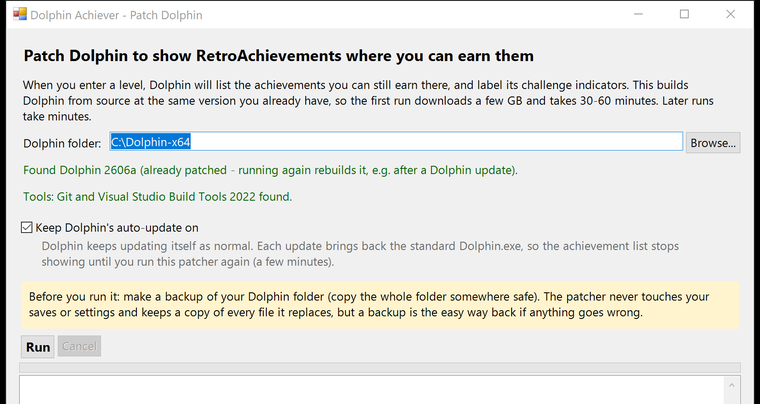
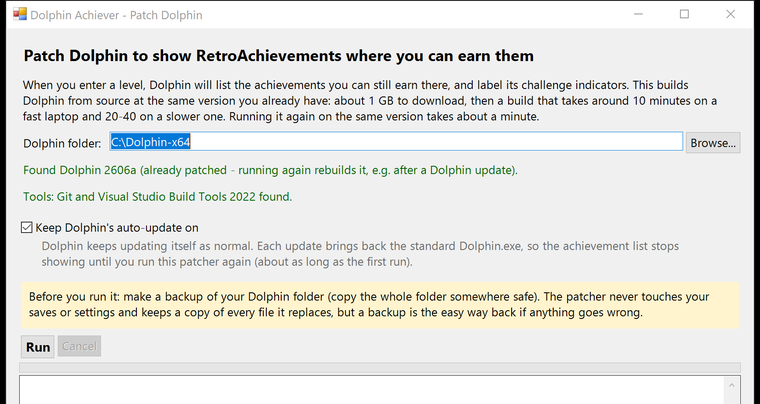
Fix first runs on a new PC; state real timings
Tested from an empty work folder, as on a new laptop:
- Checking out the bundled libraries failed with "Filename too long":
  SPIRV-Cross's test files exceed Windows' 260-character path limit under a
  longer work folder. Git now runs with core.longpaths for the checkout and
  every submodule.
- Before building, check that the Dolphin folder is writable (e.g. under
  Program Files it needs administrator rights) and that there is disk space,
  instead of failing after the build.
- Recognise pre-2024 version names ("5.0-21460").
- Report the elapsed time.

The README and patcher window now give measured numbers instead of "a few
minutes": first run 10 min on an 8-core laptop (3 download, 7 build), about
1 min for a same-version re-run, near the first-run time after a Dolphin
update, 20-40 min expected on a 4-core laptop; about 1 GB download, 4 GB disk.

Changed region(s): [[0.0303, 0.2376, 0.9382, 0.297], [0.1211, 0.6238, 0.5447, 0.6832]]

diff --git a/README.md b/README.md
@@ -17,7 +17,8 @@ exclusive fullscreen alike. Nothing extra runs alongside Dolphin.
 
 ## How to use
 
-You need Windows 10 or 11 (64-bit), an internet connection and about 10 GB of free disk space.
+You need Windows 10 or 11 (64-bit), an internet connection and about 5 GB of free disk space
+(plus about 7 GB more if the build tools below still have to be installed).
 
 1. **Download** this repository (green *Code* button, *Download ZIP*) and unzip it anywhere.
 2. **Double-click `Patch Dolphin.cmd`.** The patcher window opens.
@@ -28,7 +29,8 @@ You need Windows 10 or 11 (64-bit), an internet connection and about 10 GB of fr
    which Dolphin version it found.
 4. If it says tools are missing, press **Install missing tools**. It installs
    [Git](https://git-scm.com) and Microsoft's *Visual Studio Build Tools* (C++), which are
-   needed to build Dolphin. Windows asks for permission, and the Build Tools are a few GB.
+   needed to build Dolphin. Windows asks for permission; the Build Tools are a large download
+   and install (typically 15-30 minutes), but only once.
 5. **Choose whether Dolphin keeps updating itself** with *Keep Dolphin's auto-update on*
    (on by default). If it stays on, Dolphin updates as normal, but each update brings back
    the standard `Dolphin.exe`, so the achievement list stops showing until you run the
@@ -36,8 +38,10 @@ You need Windows 10 or 11 (64-bit), an internet connection and about 10 GB of fr
 6. **Back up your Dolphin folder**: copy the whole folder somewhere safe. The patcher never
    touches your saves or settings and keeps its own copy of every file it replaces, but a
    backup is the simple way back if anything goes wrong.
-7. **Press Run.** The first run downloads Dolphin's source (a few GB) and builds it, which
-   takes 30-60 minutes. The log shows what it is doing. Later runs take a few minutes.
+7. **Press Run.** It downloads Dolphin's source (about 1 GB) and builds it; the log shows
+   what it is doing. See [how long it takes](#how-long-it-takes). If Dolphin lives in a
+   protected folder such as `C:\Program Files`, right-click `Patch Dolphin.cmd` and choose
+   *Run as administrator*; the patcher checks this before it starts building.
 8. **Start Dolphin as usual.** Log in to RetroAchievements in Dolphin
    (*Tools > Achievements*) if you have not already.
 
@@ -52,7 +56,7 @@ you have installed, so it keeps working across Dolphin releases and development 
 
 - **Auto-update on** (the default): Dolphin updates itself when a new version is out, which
   replaces the patched `Dolphin.exe` with the standard one. Everything still works; only the
-  achievement list and labels are gone until you run the patcher again (a few minutes).
+  achievement list and labels are gone until you run the patcher again.
 - **Auto-update off**: Dolphin stays on the version you patched. To update, install the new
   Dolphin over the old one, then run the patcher again.
 
@@ -63,6 +67,22 @@ if you run development builds).
 
 If a future Dolphin changes the code the patches modify, the patcher stops **before touching
 your install** and says the patches need updating for that version.
+
+### How long it takes
+
+Measured on a laptop with an 8-core Ryzen 7 7730U and a fast connection:
+
+| Run | Time |
+|---|---|
+| First run on a computer | 10 minutes (3 downloading, 7 building) |
+| After a Dolphin update | close to the first run: most of Dolphin changes between versions, so most of it is rebuilt, but only the changes are downloaded |
+| Again on the same version | about 1 minute |
+
+Building is the slow part, and it scales with your processor: on a 4-core laptop expect
+roughly 20-40 minutes for a first run, and longer on battery power. A slow connection adds
+to the download. The build folder takes about 4 GB and is kept between runs
+(`%USERPROFILE%\dolphin-patched-build`); deleting it is safe, the next run just starts from
+scratch.
 
 ### Undoing it
 
